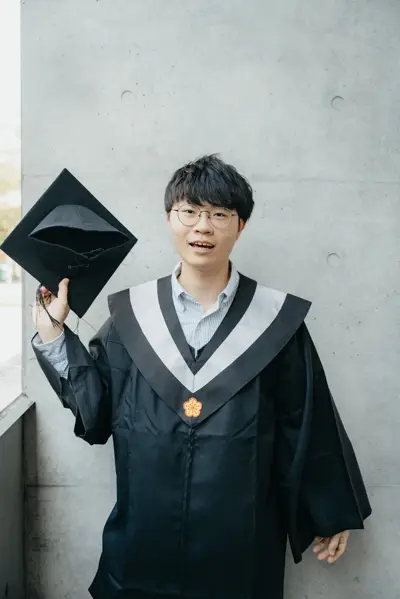
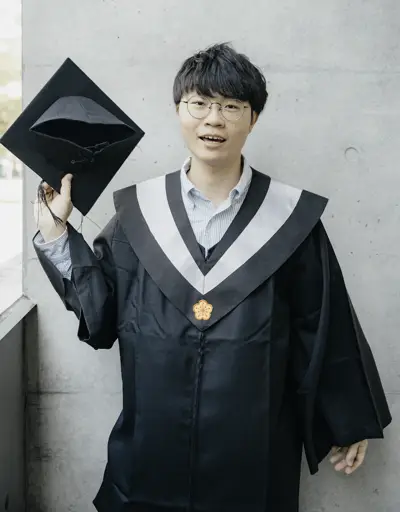
deploy: 10f677bc2610097b8d2b3dbc71e7cb39de7aa6cd

diff --git a/index.html b/index.html
@@ -804,7 +804,7 @@
             <div class="mem-img skewed-block" b-role="block" style="background-image: url(/assets/members/r14521604-20w.webp);">
                 <img
                     loading="lazy" 
-                    src="/assets/members/r14521604.jpeg" 
+                    src="/assets/members/r14521604.png" 
                     srcset="
                         /assets/members/r14521604-200w.webp 200w,
                         /assets/members/r14521604-400w.webp 400w,
